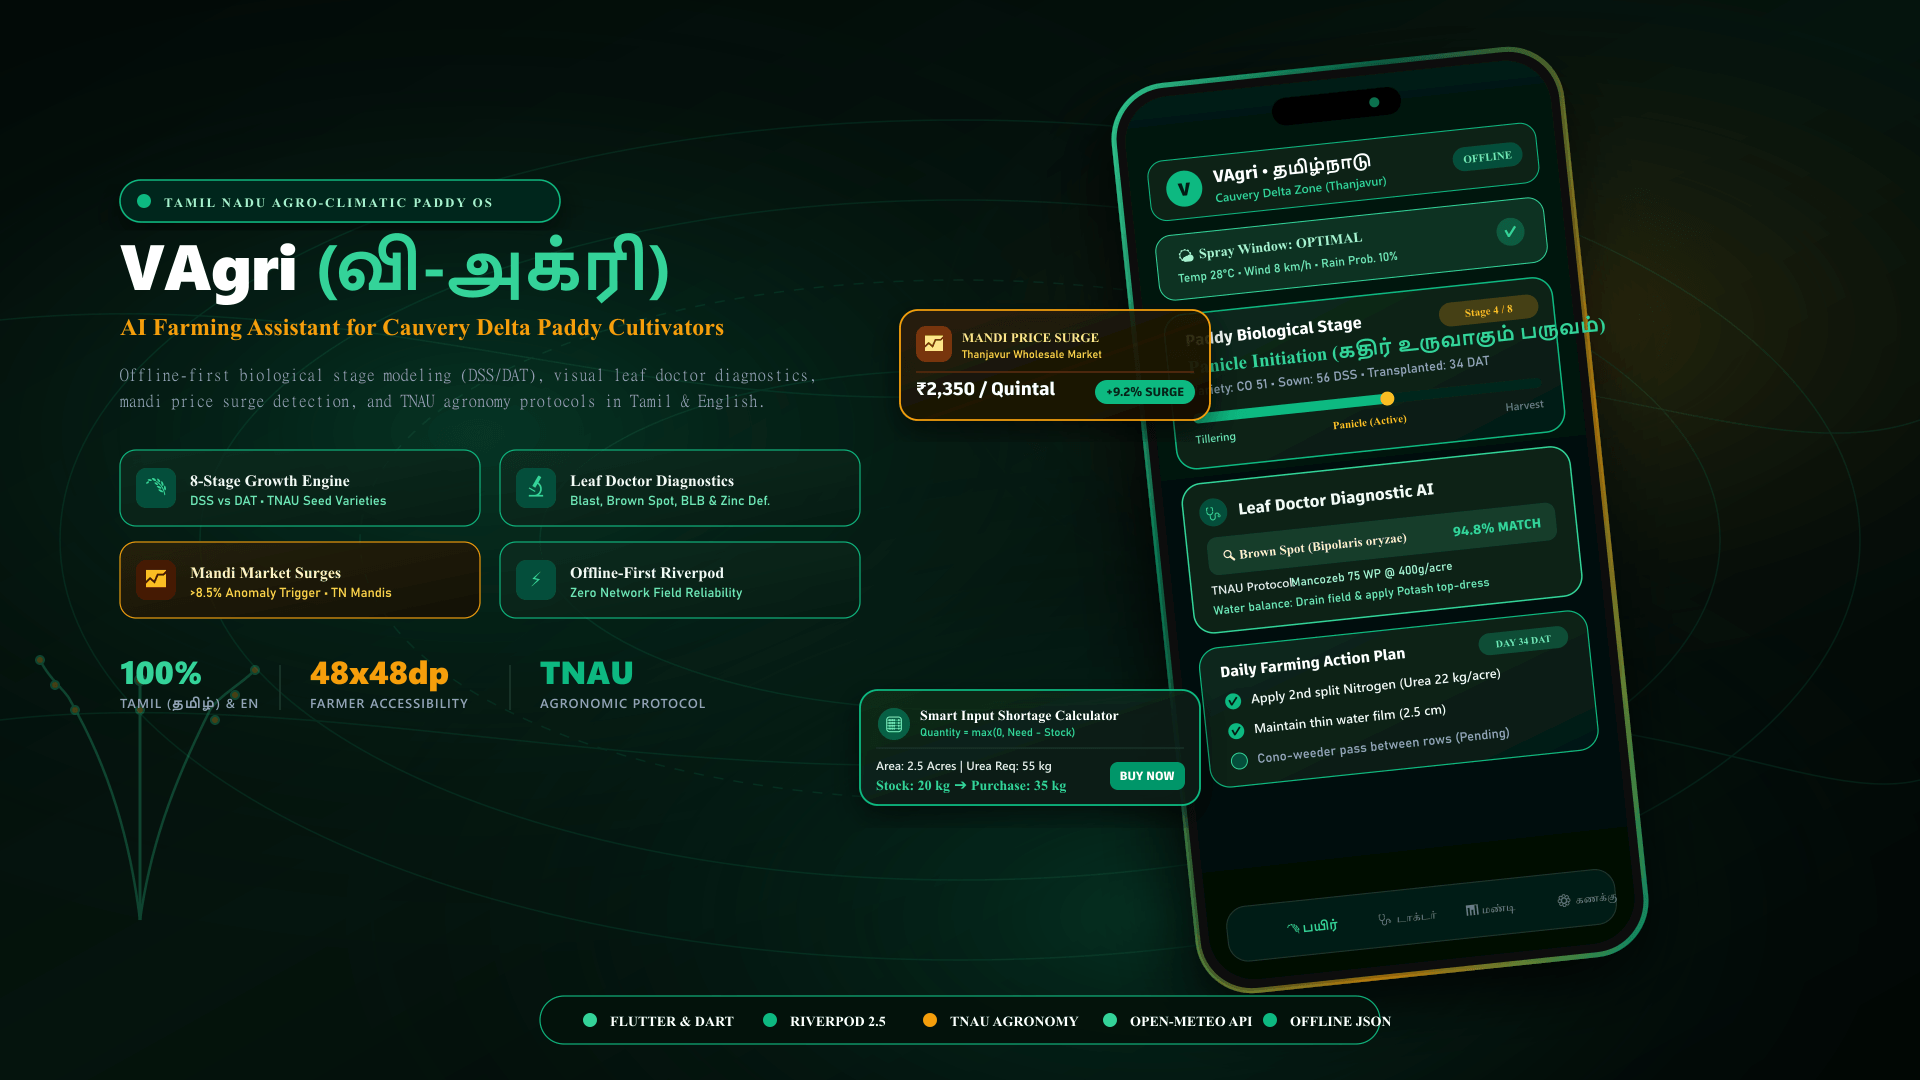
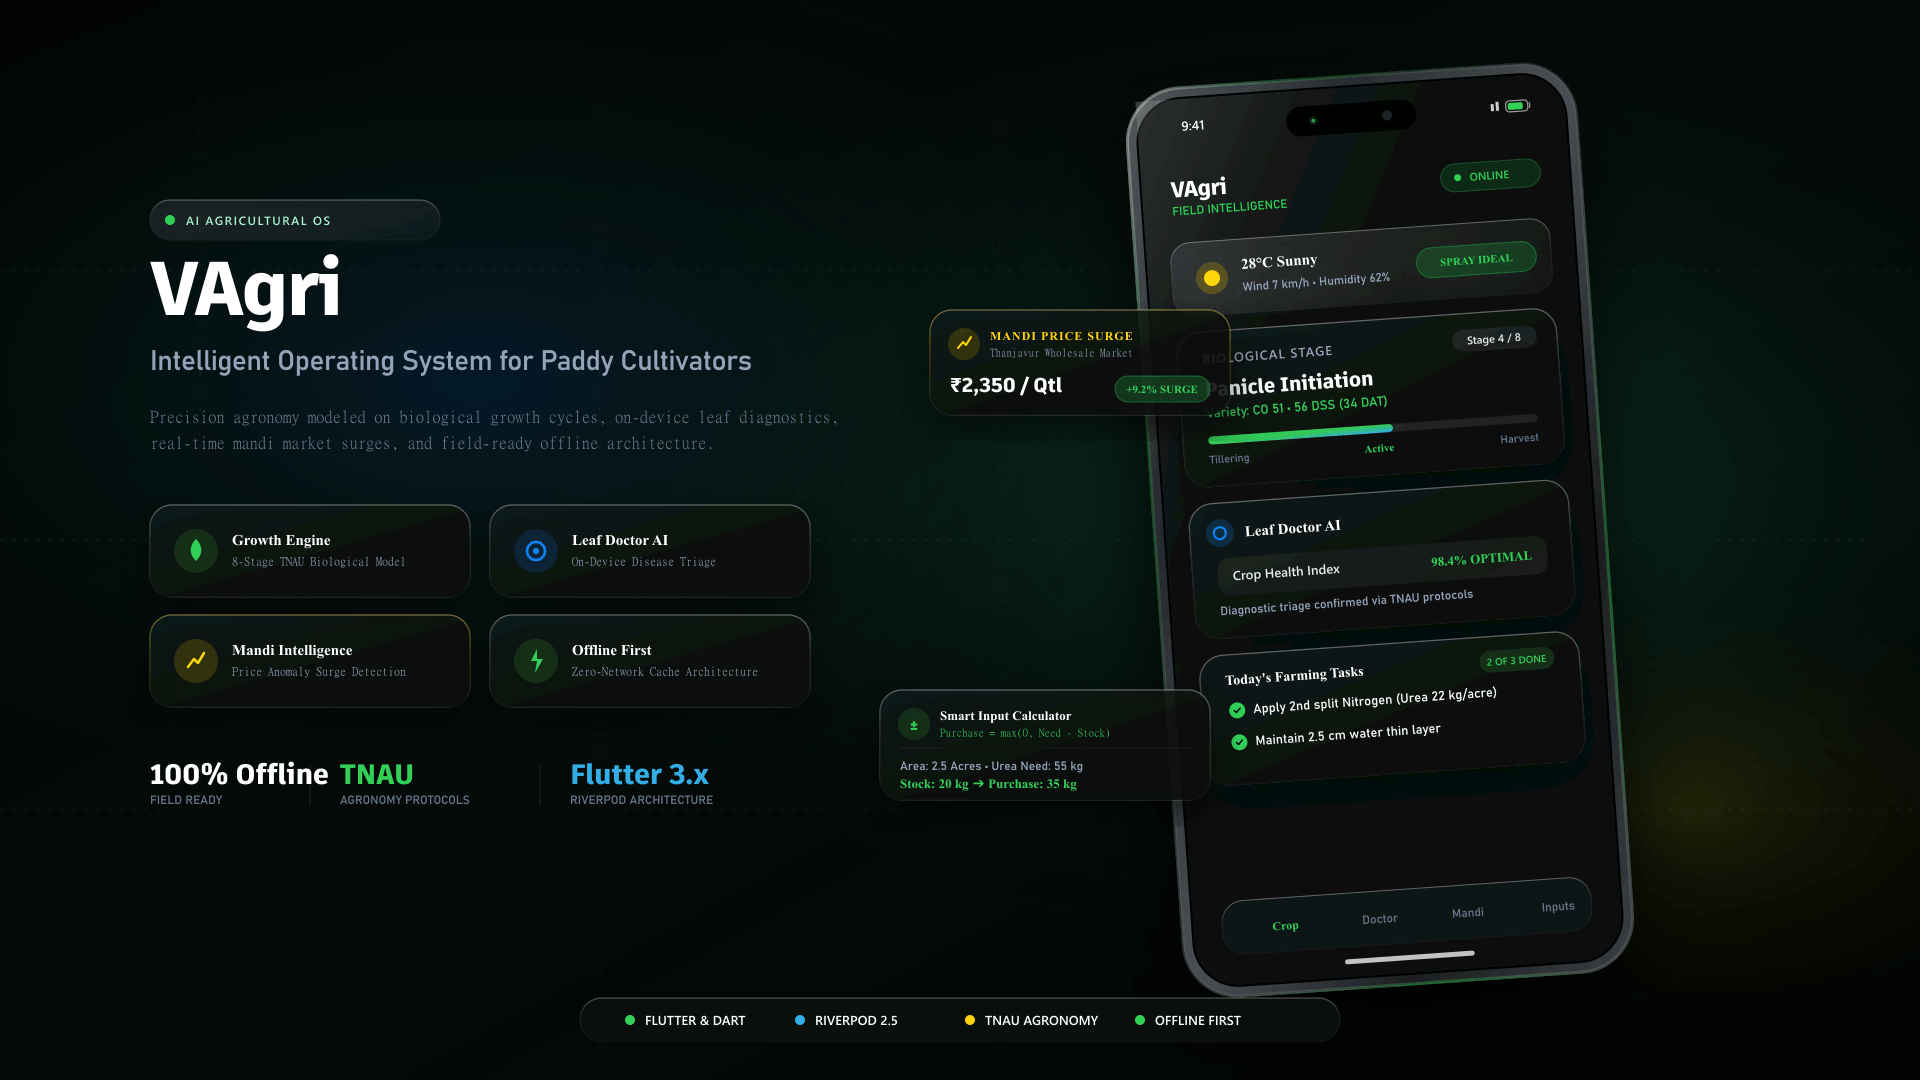
feat: redesign VAgri hero image with premium iOS glossy glassmorphism style

diff --git a/src/data/projects.ts b/src/data/projects.ts
@@ -2,15 +2,15 @@
 export const projects = [
   {
     "id": "vagri-app",
-    "title": "VAgri (V-Agri) – AI Farming Assistant & OS for Tamil Nadu Paddy Farmers",
-    "description": "An offline-first agricultural mobile operating system tailored for Cauvery Delta paddy cultivators, featuring biological stage modeling (DSS/DAT), on-device leaf disease diagnostics, mandi price surge intelligence, and smart input budgeting.",
+    "title": "VAgri – AI Farming Assistant & Operating System",
+    "description": "An offline-first agricultural mobile operating system tailored for paddy cultivators, featuring biological stage modeling (DSS/DAT), on-device leaf disease diagnostics, mandi price surge intelligence, and smart input budgeting.",
     "imageUrl": "/image/vagri/vagri_showcase.png",
     "sliderImages": [
       "/image/vagri/vagri_showcase.png"
     ],
     "githubUrl": "https://github.com/Pugal-M/VAgri",
     "paperUrl": "/image/vagri/VAgri_App_Summary.pdf",
-    "longDescription": "VAgri (V-Agri) is an offline-first agricultural mobile operating system specifically tailored for paddy (rice) farmers across the Cauvery Delta and Tamil Nadu agro-climatic zones. Grounded strictly in the Tamil Nadu Agricultural University (TNAU) Crop Production Guide and ICAR-NRRI protocols, it unifies daily task planning, biological stage modeling, leaf diagnostic support, input shortage calculation, and live mandi intelligence into an accessible, senior-friendly interface.\n\nKey Technical Capabilities:\n• Biological GrowthEngine: 8-stage biological growth model computing Days Since Sowing (DSS) vs Days Since Transplanting (DAT) for TNAU varieties (CO 51, ADT 43, CR 1009 Sub 1, ASD 16).\n• TNAU Task Generator: Automated daily farming action plans covering fertilizer split dosages, basal application, weeding, and critical irrigation windows.\n• Crop Health & Leaf Doctor Diagnostics: On-device visual diagnostic triage for Rice Blast (Pyricularia oryzae), Brown Spot (Bipolaris oryzae), Bacterial Leaf Blight (Xanthomonas oryzae), Sheath Blight, and Zinc Deficiency (Khaira Disease).\n• Smart Purchase Shortage Calculator: Accurate input purchasing formula (Quantity_To_Purchase = max(0, Requirement - Usable_Stock)) across Acre, Cent (1/100 Acre), and Hectare.\n• Mandi Market Intelligence: 7-day rolling median anomaly detector triggering price surge alerts (>8.5% threshold) across Tamil Nadu regulated wholesale markets (Thanjavur, Madurai, Trichy, Thiruvarur, Tindivanam).\n• Weather & Spray Window: Open-Meteo API integration with spray feasibility index (wind <15 km/h, rain probability <30%).\n• Bilingual Farmer Accessibility: 100% Tamil (தமிழ்) and English parity with trProvider, 48x48dp touch targets, and high-contrast sunlight readability.",
+    "longDescription": "VAgri is an offline-first agricultural mobile operating system specifically tailored for paddy (rice) farmers. Grounded strictly in the Tamil Nadu Agricultural University (TNAU) Crop Production Guide and ICAR-NRRI protocols, it unifies daily task planning, biological stage modeling, leaf diagnostic support, input shortage calculation, and live mandi intelligence into an accessible, senior-friendly interface.\n\nKey Technical Capabilities:\n• Biological GrowthEngine: 8-stage biological growth model computing Days Since Sowing (DSS) vs Days Since Transplanting (DAT) for certified varieties (CO 51, ADT 43, CR 1009 Sub 1, ASD 16).\n• TNAU Task Generator: Automated daily farming action plans covering fertilizer split dosages, basal application, weeding, and critical irrigation windows.\n• Crop Health & Leaf Doctor Diagnostics: On-device visual diagnostic triage for Rice Blast (Pyricularia oryzae), Brown Spot (Bipolaris oryzae), Bacterial Leaf Blight (Xanthomonas oryzae), Sheath Blight, and Zinc Deficiency (Khaira Disease).\n• Smart Purchase Shortage Calculator: Accurate input purchasing formula (Quantity_To_Purchase = max(0, Requirement - Usable_Stock)) across Acre, Cent (1/100 Acre), and Hectare.\n• Mandi Market Intelligence: 7-day rolling median anomaly detector triggering price surge alerts (>8.5% threshold) across regulated wholesale markets.\n• Weather & Spray Window: Open-Meteo API integration with spray feasibility index (wind <15 km/h, rain probability <30%).\n• Accessible Farmer Interface: Senior-accessible UI with large 48x48dp touch targets, high-contrast sunlight readability, and full offline caching.",
     "technologies": ["Flutter", "Dart", "Riverpod", "Material 3", "Open-Meteo API", "TNAU Agronomy Protocols", "Offline-First JSON Cache"],
     "dataAiHint": "agriculture farming paddy rice agronomy flutter app",
     "date": "2025-06"
